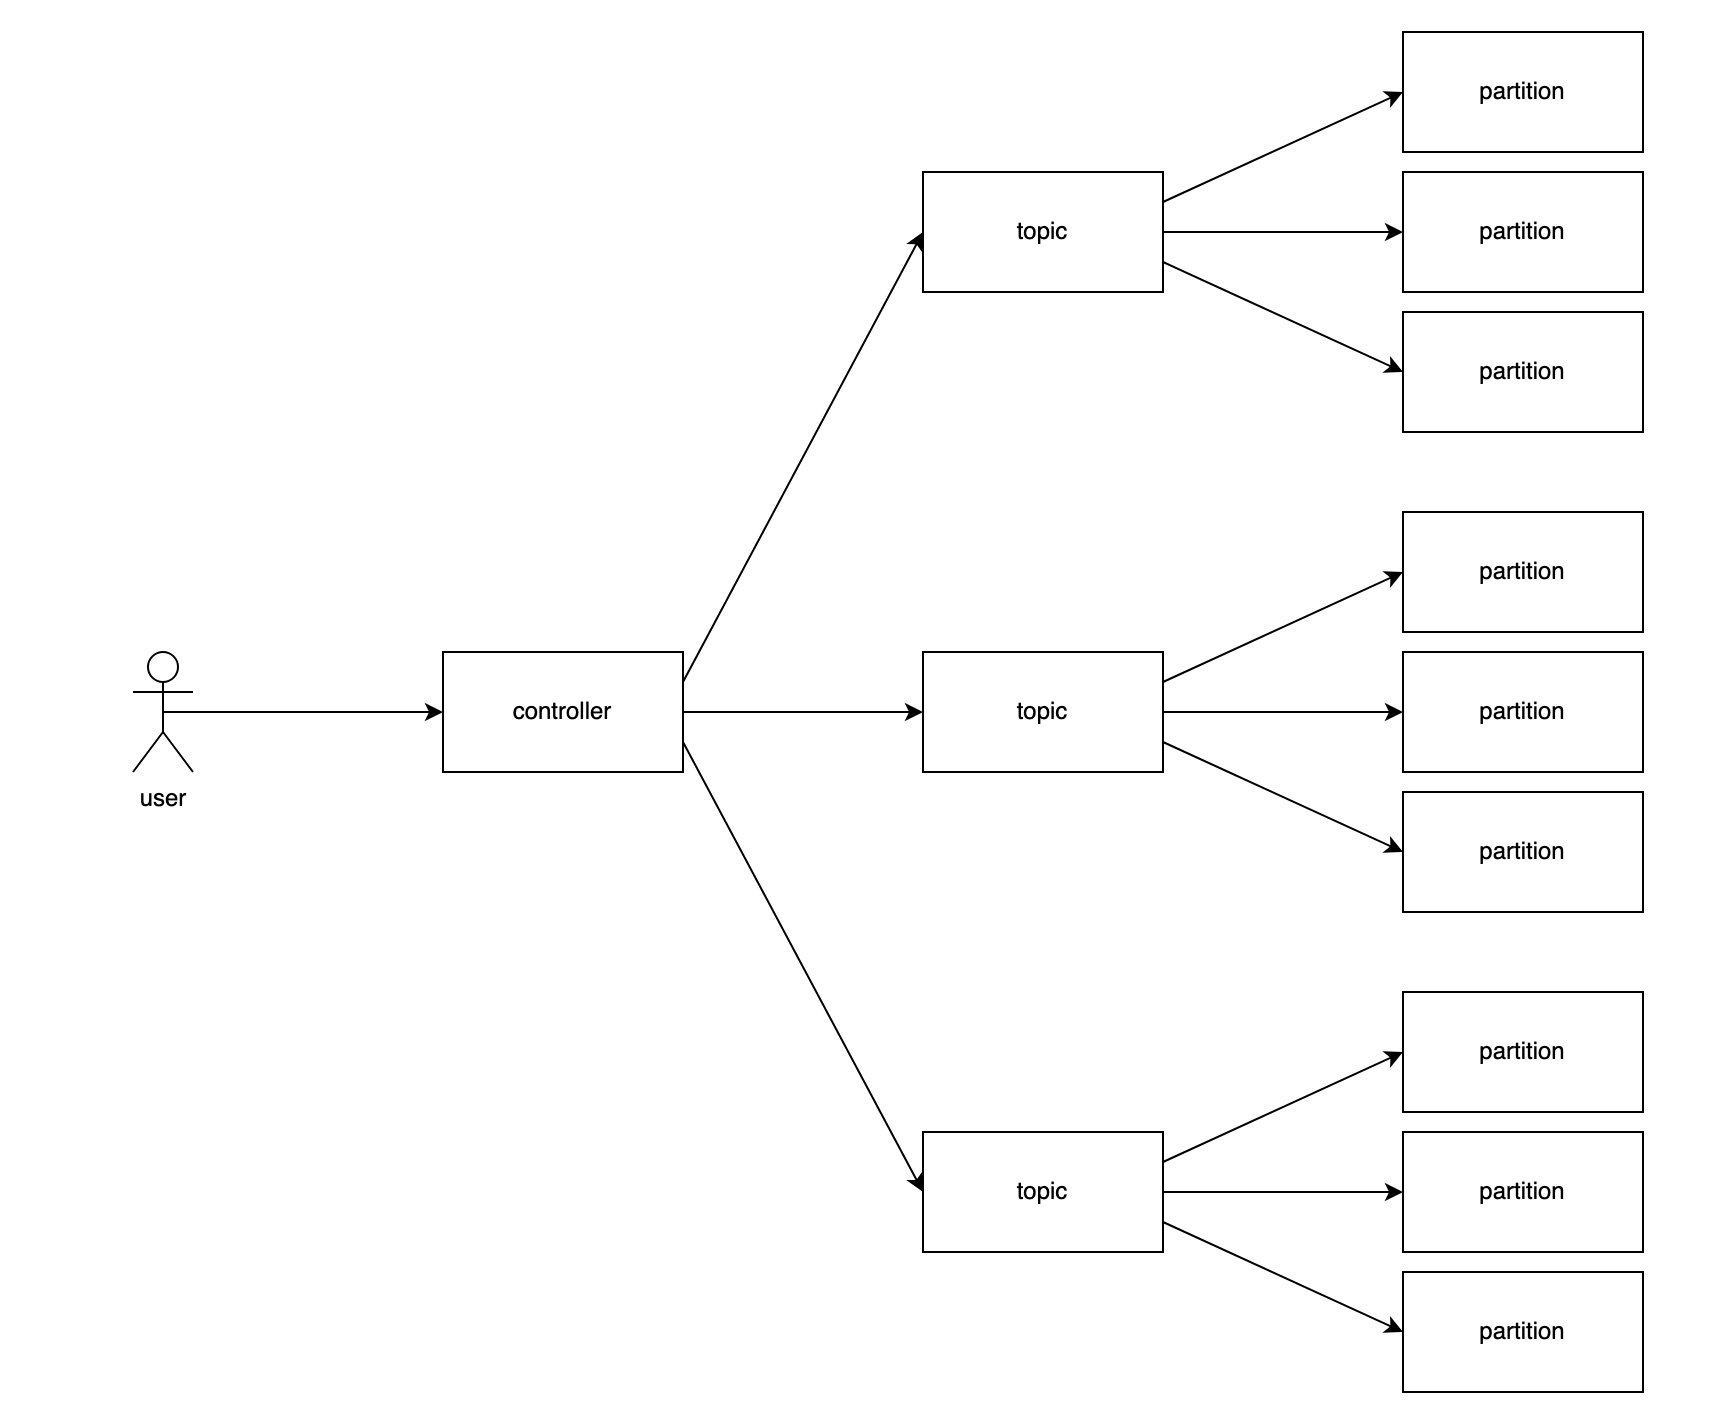
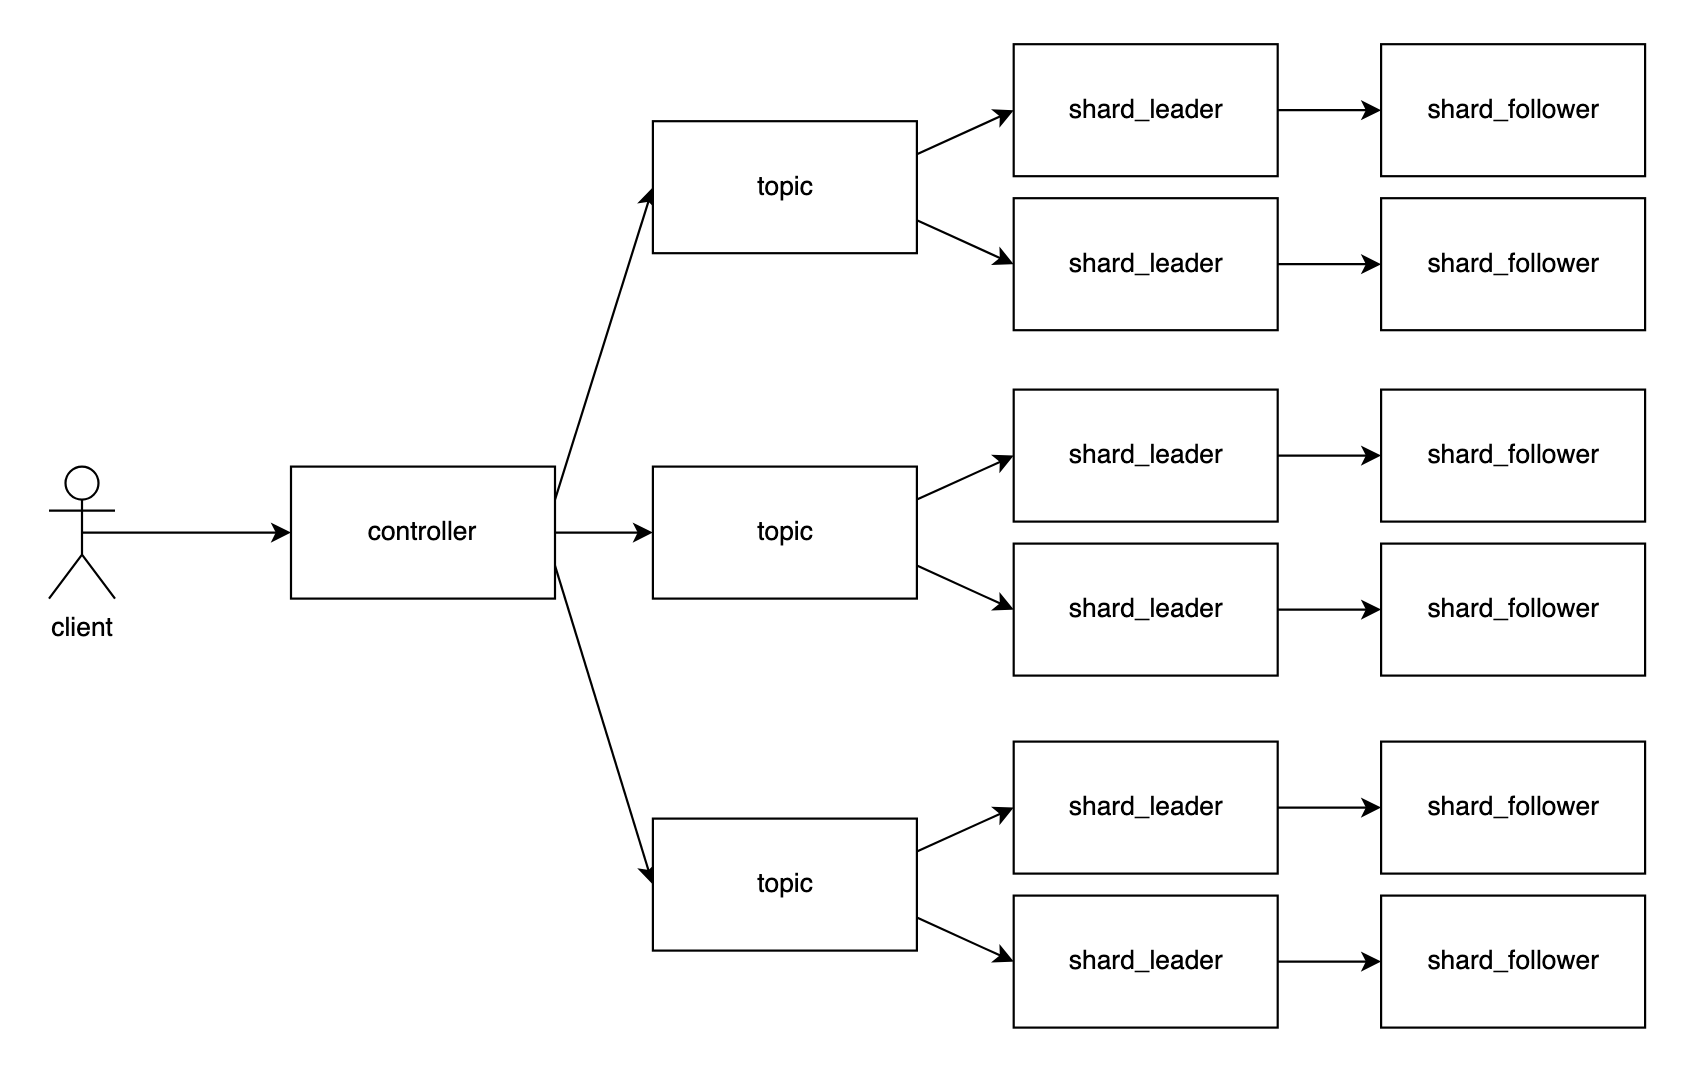
updated architecture with leader-follower pattern

diff --git a/README.md b/README.md
@@ -5,7 +5,7 @@ queue utilizes a custom application-layer protocol called DMQP.
 
 ### Features
 - Topics
-- Partitions
+- Horizontal Partitions: Sharding & Replication
 - DMQP: Custom Application-Layer Protocol
 - Security
 - Fault Tolerance
@@ -14,10 +14,13 @@ queue utilizes a custom application-layer protocol called DMQP.
 
 #### Architecture
 
-This distributed system follows a hierarchial, tree-like architecture. There's
-a top-level server called the controller that handles all user requests, routing
-them to topics. Topics, to the user, are different logical queues. Topics then
-route requests to  partitions, which are horizontal shards of queues.
+This distributed system follows a hierarchial architecture. There's a top-level
+server called the controller that handles all user requests, routing them to
+topics. Topics, to the user, are different logical queues. Topics then route
+requests to horizontal shards of queues. Shards are replicated, following a
+leader-follower architecture. Therefore, topics route requests to the replica
+set leader. The replica set leader then replicates data to followers. The Raft
+algorithm is used for leader election within a replica set.
 
 ![Architecture diagram of the distributed message queue](.github/architecture.png)
 
